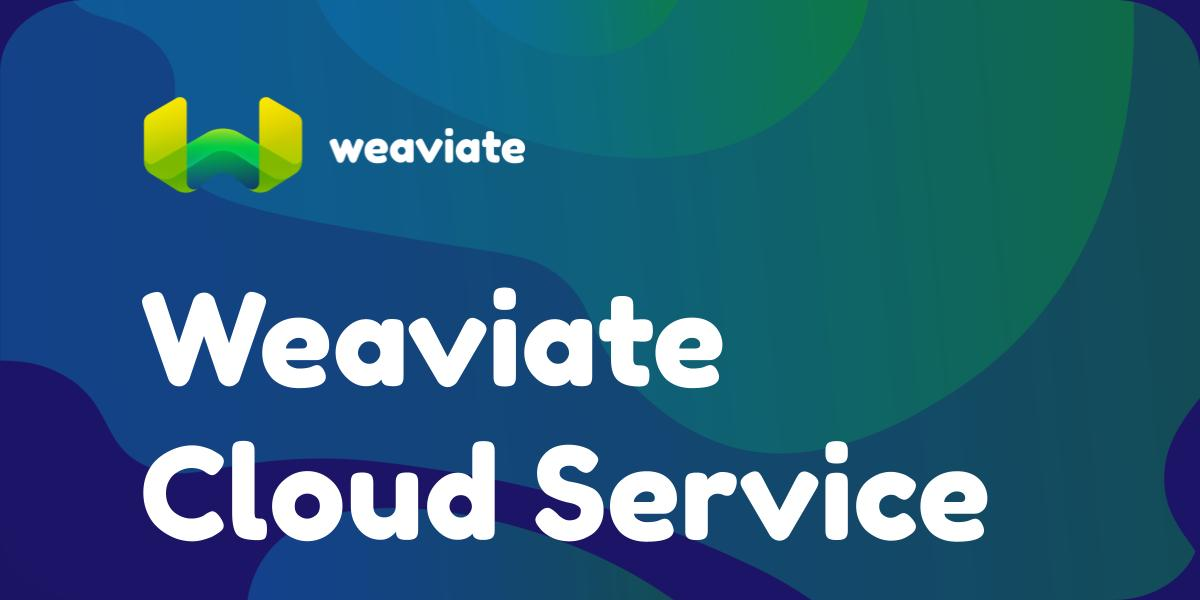
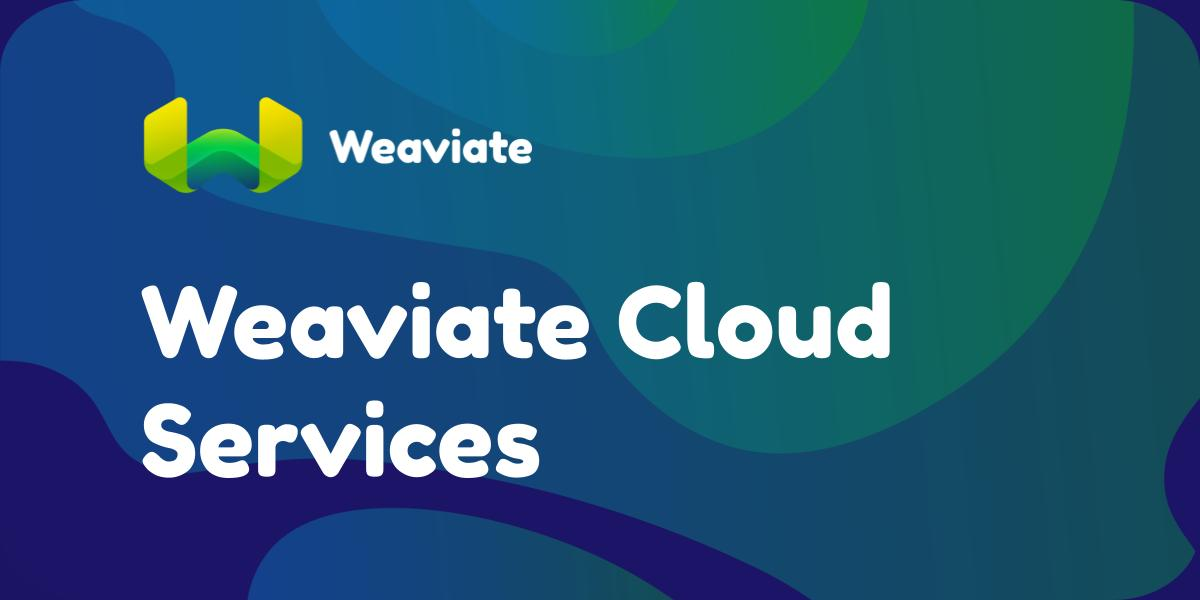
[site] fix spelling for weaviate cloud services (#433)

Changed region(s): [[0.0925, 0.45, 0.8325, 0.9], [0.2775, 0.21, 0.4625, 0.27]]

diff --git a/site.redirects.js b/site.redirects.js
@@ -194,8 +194,11 @@ const siteRedirects = {
             from: '/blog/2022/08/Research-Insights-Spider'
         },
         {
-            to: '/blog/Weaviate-Cloud-Service',
-            from: '/blog/2022/09/Weaviate-Cloud-Service'
+            to: '/blog/weaviate-cloud-services',
+            from: [
+                '/blog/2022/09/Weaviate-Cloud-Service',
+                '/blog/weaviate-cloud-service'
+            ]
         },
         {
             to: '/blog/weaviate-1-15-release',
@@ -287,6 +290,12 @@ const siteRedirects = {
             to: '/google-summer',
             from: ['/resources/gsod','/resources/gsoc']
         },
+
+        // moved/renamed pages
+        {
+            to: '/developers/weaviate/installation/weaviate-cloud-services',
+            from: '/developers/weaviate/installation/weaviate-cloud-service'
+        }
     ],
     createRedirects(existingPath) {
         if (existingPath.includes('/weaviate/api/graphql')) {

diff --git a/docusaurus.config.js b/docusaurus.config.js
@@ -143,7 +143,7 @@ const config = {
                 items: [
                     {
                         type: 'dropdown',
-                        label: 'Weaviate Cloud Service',
+                        label: 'Weaviate Cloud Services',
                         position: 'right',
                         items: [
                             {

diff --git a/developers/weaviate/tutorials/console.md b/developers/weaviate/tutorials/console.md
@@ -12,7 +12,7 @@ import Badges from '/_includes/badges.mdx';
 
 Here you can learn how to use the Weaviate console.
 
-The Weaviate console allows you to connect to Weaviate instances that are running on the Weaviate Cloud Service (our SaaS solution), on your own cluster, on your local machine, or all the public demo datasets. Note that the console never collects any data from your Weaviate instance; you can safely connect every instance, also over VPN.
+The Weaviate console allows you to connect to Weaviate instances that are running on the Weaviate Cloud Services (our SaaS solution), on your own cluster, on your local machine, or all the public demo datasets. Note that the console never collects any data from your Weaviate instance; you can safely connect every instance, also over VPN.
 
 :::tip
 The console is available on: [console.weaviate.io](https://console.weaviate.io).
@@ -22,12 +22,12 @@ The console is available on: [console.weaviate.io](https://console.weaviate.io).
 
 When opening the [Weaviate Console](https://console.weaviate.io), you'll see two options:
 
-1. ["Sign in with the Weaviate Cloud Service"](#the-weaviate-cloud-service)
+1. ["Sign in with the Weaviate Cloud Services"](#weaviate-cloud-services)
 2. ["Self-hosted Weaviate"](#connect-to-a-self-hosted-weaviate)
 
-## The Weaviate Cloud Service
+## Weaviate Cloud Services
 
-The Weaviate Cloud Service allows you to create Weaviate instances as SaaS instances on our infrastructure. There is no difference between locally run Weaviate instances or Weaviate SaaS instances other than that the latter ones are managed by us.
+Weaviate Cloud Services allow you to create Weaviate instances as SaaS instances on our infrastructure. There is no difference between locally run Weaviate instances or Weaviate SaaS instances other than that the latter ones are managed by us.
 
 :::note
 Sandboxes are free Weaviate instances! You can create them for small test use cases if you don't want to run Weaviate locally.
@@ -61,7 +61,7 @@ The console might ask to downgrade to HTTP. This is done to avoid [CORS](https:/
 ## Recap
 
 * You can use the Weaviate Console to connect to any Weaviate instance.
-* You can use the Weaviate Console to connect to the Weaviate Cloud Service to create managed Weaviate instances.
+* You can use the Weaviate Console to connect to the Weaviate Cloud Services to create managed Weaviate instances.
 * Because Weaviate uses GraphQL, you can easily query it with the console's GraphiQL integration.
 
 ## What next?

diff --git a/developers/weaviate/configuration/authentication.md b/developers/weaviate/configuration/authentication.md
@@ -55,7 +55,7 @@ correct, all contents of the token are trusted, which authenticates the user bas
 
 Any "OpenID Connect" compatible token issuer implementing OpenID Connect Discovery can be used with Weaviate. Configuring the OIDC token issuer is outside the scope of this document, but here are a few options as a starting point:
 
-1. For very simple use-cases such as for a single user, you can use [Weaviate Cloud Service](https://auth.wcs.api.weaviate.io) as the OIDC token issuer. Sign up and specify `https://auth.wcs.api.weaviate.io/auth/realms/SeMI` as the issuer and your sign-up email as the user in the OIDC configuration .
+1. For very simple use-cases such as for a single user, you can use [Weaviate Cloud Services](https://auth.wcs.api.weaviate.io) as the OIDC token issuer. Sign up and specify `https://auth.wcs.api.weaviate.io/auth/realms/SeMI` as the issuer and your sign-up email as the user in the OIDC configuration .
 1. If you need a more customizable setup you can use commercial OIDC providers like [Okta](https://www.okta.com/).
 1. As another alternative, you can run your own OIDC token issuer server, which may be the most complex but also configurable solution. Popular open-source solutions include Java-based [Keycloak](https://www.keycloak.org/) and Golang-based [dex](https://github.com/dexidp/dex).
 
@@ -134,7 +134,7 @@ While it is outside the scope of our documentation to cover every OIDC authentic
     - Validated using Okta and Azure as identity providers; GCP does not support client credentials grant flow (as of December 2022).
     - Weaviate's Python client directly supports this method.
     - Client credential flows usually do not come with a refresh token and the credentials are saved in the respective clients to acquire a new access token on expiration of the old one.
-1. Use `resource owner password flow` for trusted applications such as [Weaviate Cloud Service](https://auth.wcs.api.weaviate.io). 
+1. Use `resource owner password flow` for trusted applications such as [Weaviate Cloud Services](https://auth.wcs.api.weaviate.io). 
     - Weaviate's Python and JavaScript clients directly support this method.
 1. Use `hybrid flow` if Azure is your token issuer or if you would like to prevent exposing passwords.
 

diff --git a/developers/weaviate/installation/weaviate-cloud-services.md b/developers/weaviate/installation/weaviate-cloud-services.md
@@ -1,8 +1,8 @@
 ---
-title: Weaviate Cloud Service
+title: Weaviate Cloud Services
 sidebar_position: 1
 image: og/docs/installation.jpg
-# tags: ['installation', 'Weaviate Cloud Service']
+# tags: ['installation', 'Weaviate Cloud Services']
 ---
 import Badges from '/_includes/badges.mdx';
 
@@ -10,9 +10,9 @@ import Badges from '/_includes/badges.mdx';
 
 ## Overview
 
-Using the Weaviate Cloud Service (WCS) may be the easiest way to run Weaviate. You simply create a cluster and the WCS manages it for you.
+Using the Weaviate Cloud Services (WCS) may be the easiest way to run Weaviate. You simply create a cluster and the WCS manages it for you.
 
-The Weaviate Cloud Service can be accessed via the [console](https://console.weaviate.io) and is the SaaS version of Weaviate.
+The Weaviate Cloud Services can be accessed via the [console](https://console.weaviate.io) and is the SaaS version of Weaviate.
 
 * You can learn more about the console in [this guide](../tutorials/console.md).
 * You can create free-tier sandboxes and [sign up](https://console.weaviate.io) for the private beta of our production SaaS.
@@ -20,7 +20,7 @@ The Weaviate Cloud Service can be accessed via the [console](https://console.wea
 ## Sign in
 
 1. Visit [https://console.weaviate.io/](https://console.weaviate.io)
-2. Click _Sign in with the Weaviate Cloud Service_ or [create an account](https://auth.wcs.api.weaviate.io/auth/realms/SeMI/protocol/openid-connect/registrations?client_id=wcs&response_type=code&redirect_uri=https://console.weaviate.io/console/wcs).
+2. Click _Sign in with the Weaviate Cloud Services_ or [create an account](https://auth.wcs.api.weaviate.io/auth/realms/SeMI/protocol/openid-connect/registrations?client_id=wcs&response_type=code&redirect_uri=https://console.weaviate.io/console/wcs).
 3. After signing in you will be able to create a Weaviate cluster.
 
 ## Create a cluster

diff --git a/developers/weaviate/installation/index.md b/developers/weaviate/installation/index.md
@@ -19,7 +19,7 @@ This section shows you available options for running Weaviate, and how to instal
 
 ## Options for running Weaviate
 
-Weaviate versions on the Weaviate Cloud Service (WCS) and Weaviate open source are identical, with the only difference that the WCS manages your Weaviate instance for you and comes with a specific SLA, whereas Weaviate open source comes with a [BSD-3 license](https://github.com/weaviate/weaviate/blob/master/LICENSE).
+Weaviate versions on the Weaviate Cloud Services (WCS) and Weaviate open source are identical, with the only difference that the WCS manages your Weaviate instance for you and comes with a specific SLA, whereas Weaviate open source comes with a [BSD-3 license](https://github.com/weaviate/weaviate/blob/master/LICENSE).
 
 You have three options to run Weaviate, all come with their own installation guides. 
 
@@ -27,7 +27,7 @@ You have three options to run Weaviate, all come with their own installation gui
 Both Docker Compose and Kubernetes setups use a yaml file for customizing Weaviate instances, typically called `docker-compose.yml` or `values.yml` respectively. These files will be referred to throughout the documentation as 'configuration yaml files'.
 :::
 
-* [Weaviate Cluster Service](./weaviate-cloud-service.md) – advised for users who want to use a managed Weaviate service.
+* [Weaviate Cloud Services](./weaviate-cloud-services.md) – advised for users who want to use a managed Weaviate service.
 * [Docker Compose](./docker-compose.md) – advised for those who want to develop on Weaviate.
 * [Kubernetes](./kubernetes.md) – advised for production setups.
 

diff --git a/src/pages/service/service-schedule.md b/src/pages/service/service-schedule.md
@@ -24,7 +24,7 @@ These terms and conditions (Terms) apply to the order by you and supply of Servi
  
 2.5 We will use all reasonable endeavours to meet any service level commitments or milestones specified in the contract but any such service levels or milestones are estimates only and failure to perform the Services by such commitments will not give you the right to terminate the Contract.
 
-2.6 All service levels are applicable on the Weaviate Cloud Service, public cloud or on premise (hybrid-SaaS).
+2.6 All service levels are applicable on the Weaviate Cloud Services, public cloud or on premise (hybrid-SaaS).
 
 2.7 In the case of Hybrid-SaaS installations, all services need at least Kubernetes or similar services to host Weaviate.
 
@@ -34,7 +34,7 @@ These terms and conditions (Terms) apply to the order by you and supply of Servi
 
 2.9.1 Replacement of the BSD3 open source license of Weaviate with this enterprise Service License Agreement.
 
-2.9.2 Weaviate cluster on the Weaviate Cloud Service.
+2.9.2 Weaviate cluster on the Weaviate Cloud Services.
 
 2.9.3 A cluster is provisioned in a round-robin region on Amazon Web Services, Microsoft Azure, or Google Cloud Platform based on available resources.
 

diff --git a/developers/weaviate/quickstart/installation.md b/developers/weaviate/quickstart/installation.md
@@ -15,9 +15,9 @@ import weaviateClusterImg from './img/weaviate-cluster.jpg';
 
 Here, you will create a new Weaviate instance for use throughout this tutorial.
 
-## Weaviate Cloud Service
+## Weaviate Cloud Services
 
-We will use the free sandbox tier from _Weaviate Cloud Service_ (WCS) for this tutorial.
+We will use the free sandbox tier from _Weaviate Cloud Services_ (WCS) for this tutorial.
 
 WCS is a managed SaaS service that requires no maintenance at your end. As it is the fastest 🚀 way to create a new Weaviate instance, let's spin up an instance with it for use throughout this tutorial. 
 
@@ -87,8 +87,8 @@ Please be patient as we update our Java and Go code examples. They will be ready
 
 ## Recap
 
-* You have a working instance of Weaviate in Weaviate Cloud Service (WCS).
-* Weaviate Cloud Service (WCS) is a managed Weaviate SaaS.
+* You have a working instance of Weaviate in Weaviate Cloud Services (WCS).
+* Weaviate Cloud Services (WCS) is a managed Weaviate SaaS.
 * You have installed a client library in your preferred language.
 
 ## Next

diff --git a/developers/weaviate/more-resources/glossary.md b/developers/weaviate/more-resources/glossary.md
@@ -21,7 +21,7 @@ import Badges from '/_includes/badges.mdx';
 | **Property** | All classes have properties. E.g., the class Company might have the property _name_. In Weaviate, properties can be recognized because they always have a lowercase first character. |
 | **Schema** | In Weaviate, a schema is used to define the types of data you will be adding and querying. You can learn more about it [here](../tutorials/schema.md). |
 | **Weaviate Cluster** | A managed Weaviate cluster |
-| **Weaviate Cloud Service (WCS)** | The Weaviate Cloud Service (WCS) is the SaaS version of Weaviate |
+| **Weaviate Cloud Services (WCS)** | The Weaviate Cloud Services (WCS) is the SaaS version of Weaviate |
 | **Vector index** | A data storage mechanism where data is stored as vectors (long arrays of numbers, also seen as coordinates in a high dimensional space), allowing for context-based search |
 
 ## More Resources

diff --git a/src/pages/service/EULA.md b/src/pages/service/EULA.md
@@ -28,9 +28,9 @@ You agree not to, and you will not permit others to:
 
 a) license, sell, rent, lease, assign, distribute, transmit, host, outsource, disclose or otherwise commercially exploit the Application or make the Application available to any third party.
 
-### Modifications to Weaviate Cloud Service
+### Modifications to Weaviate Cloud Services
 
-Regarding the Weaviate Cloud Service (Weaviate SaaS), Weaviate B.V. reserves the right to modify, suspend or discontinue, temporarily or permanently, the Application or any service to which it connects, with or without notice and without liability to you.
+Regarding the Weaviate Cloud Services (Weaviate SaaS), Weaviate B.V. reserves the right to modify, suspend or discontinue, temporarily or permanently, the Application or any service to which it connects, with or without notice and without liability to you.
 
 ### Term and Termination
 

diff --git a/developers/weaviate/quickstart/index.md b/developers/weaviate/quickstart/index.md
@@ -57,7 +57,7 @@ But don't worry too much even if you are uncomfortable with any of these. This t
 You will be creating your own instance of Weaviate in this tutorial, and using an API for Weaviate to vectorize the data with (these types of APIs are called *inference* APIs). 
 
 To follow along with the tutorial, we recommend you create accounts with:
-1. A [Weaviate Cloud Service (WCS)](https://console.weaviate.io/) account, and
+1. A [Weaviate Cloud Services (WCS)](https://console.weaviate.io/) account, and
 1. An account with an inference API provider such as:
     1. [OpenAI](https://beta.openai.com/docs/guides/embeddings),
     1. [Cohere](https://docs.cohere.ai/reference/embed), or

diff --git a/developers/weaviate/tutorials/query.md b/developers/weaviate/tutorials/query.md
@@ -21,7 +21,7 @@ We recommend you complete the [Quickstart tutorial](../quickstart/index.md) firs
 Before you start this tutorial, you should follow the steps in the tutorials to have:
 
 At this point, you should have: 
-- An instance of Weaviate running (e.g. on the [Weaviate Cloud Service](https://console.weaviate.io)),
+- An instance of Weaviate running (e.g. on the [Weaviate Cloud Services](https://console.weaviate.io)),
 - An API key for your preferred inference API, such as OpenAI, Cohere, or Hugging Face,
 - Installed your preferred Weaviate client library,
 - Set up a `Question` class in your schema, and
